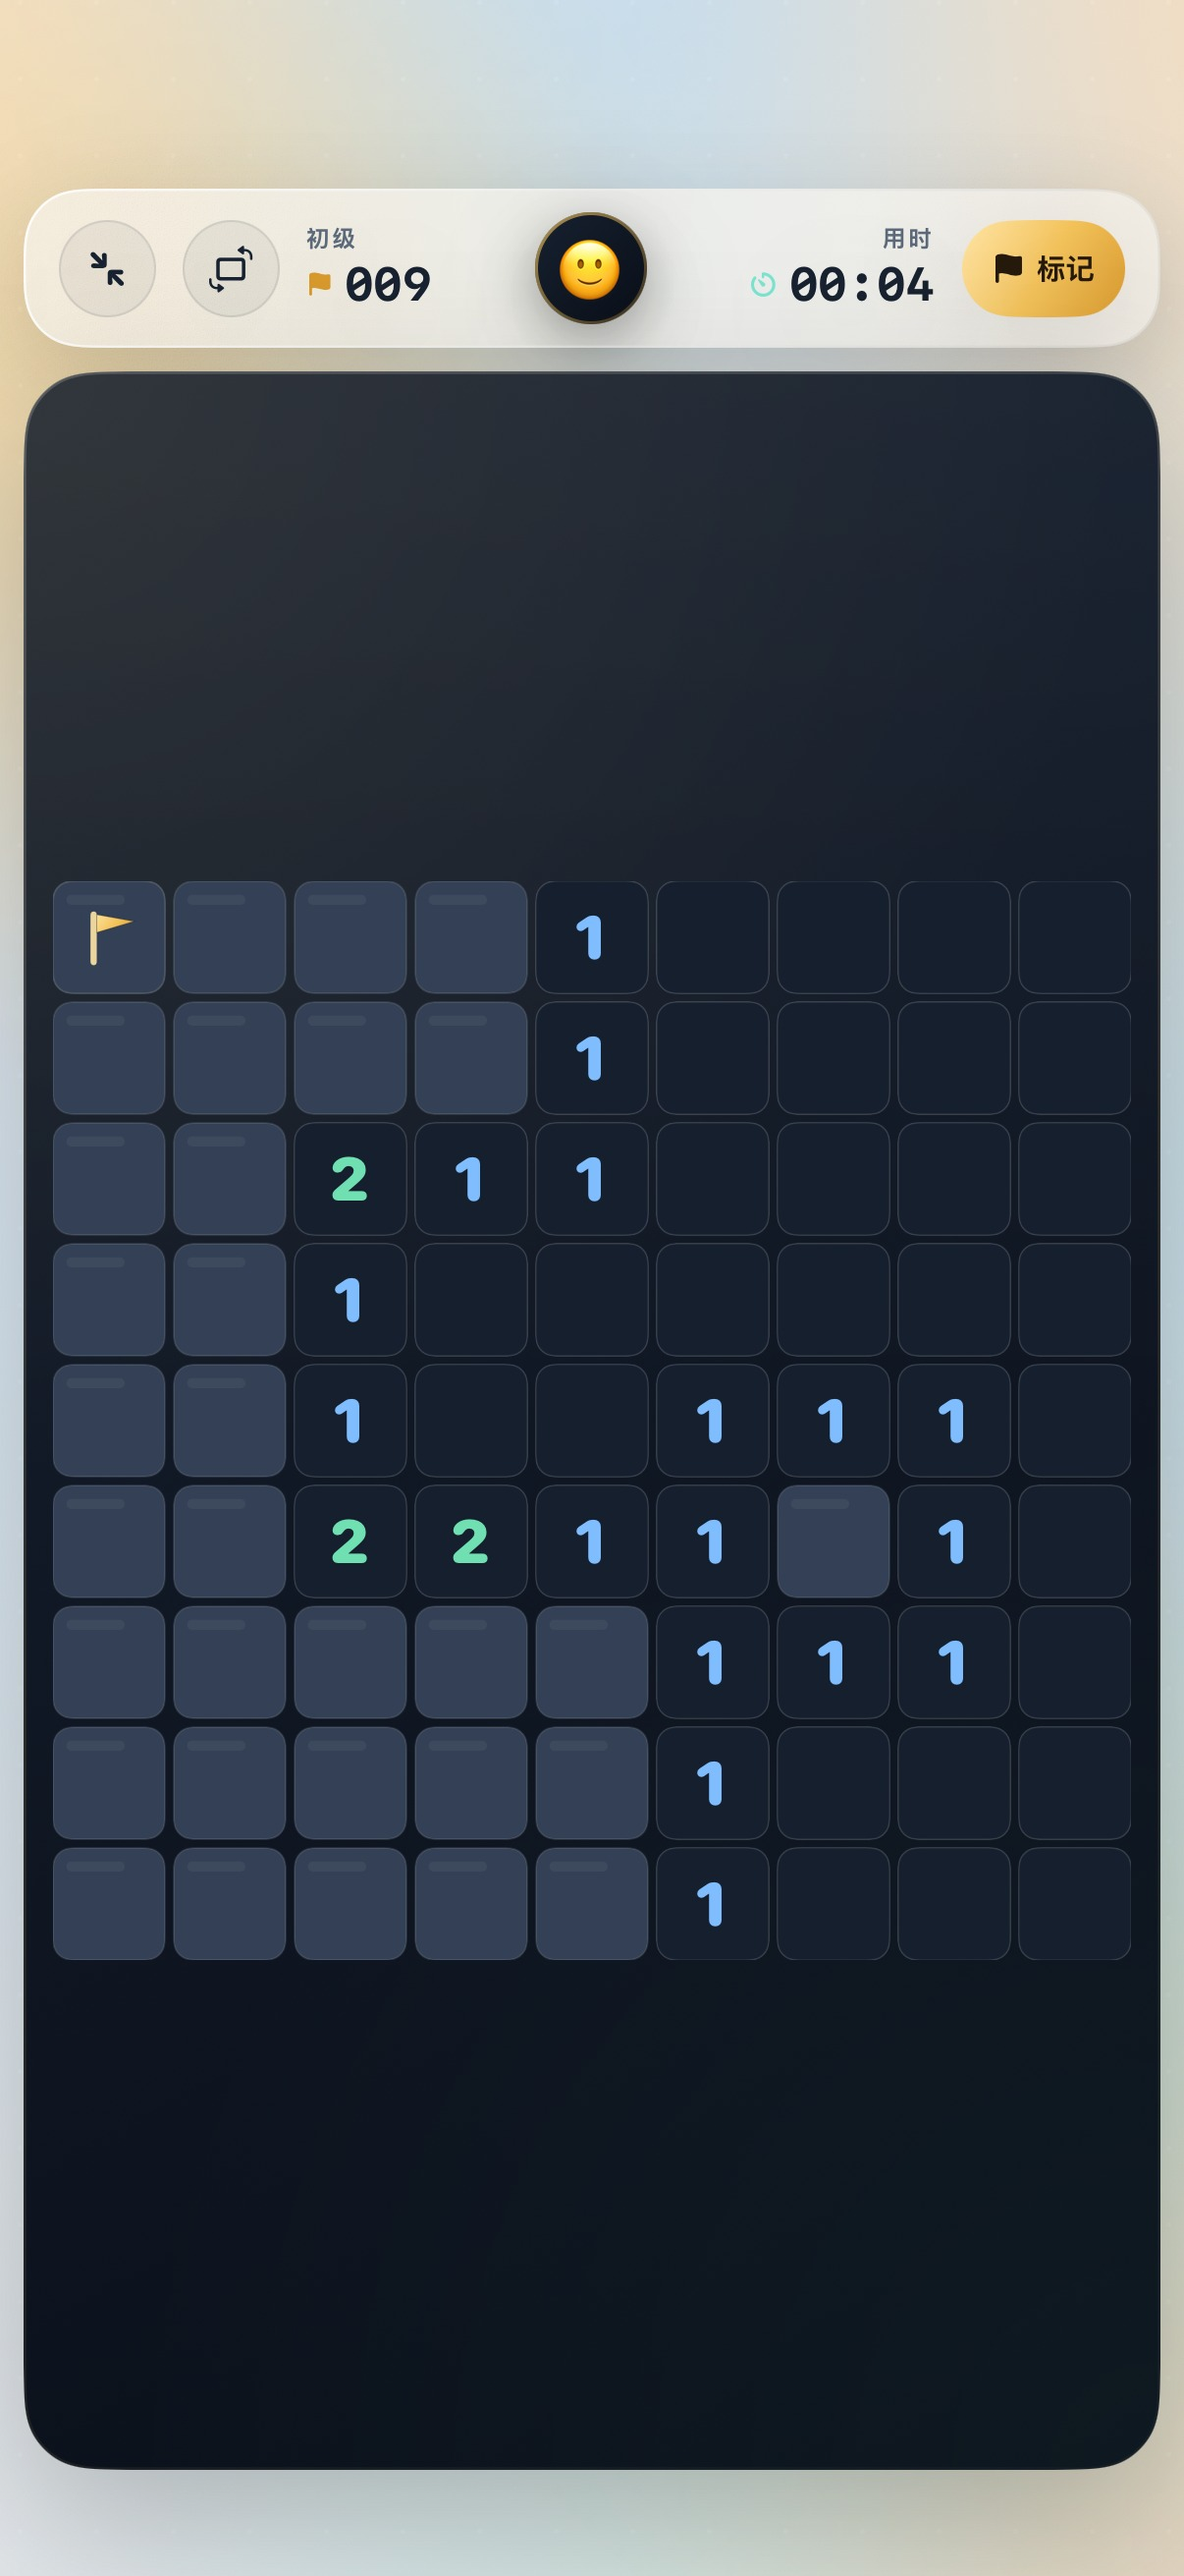
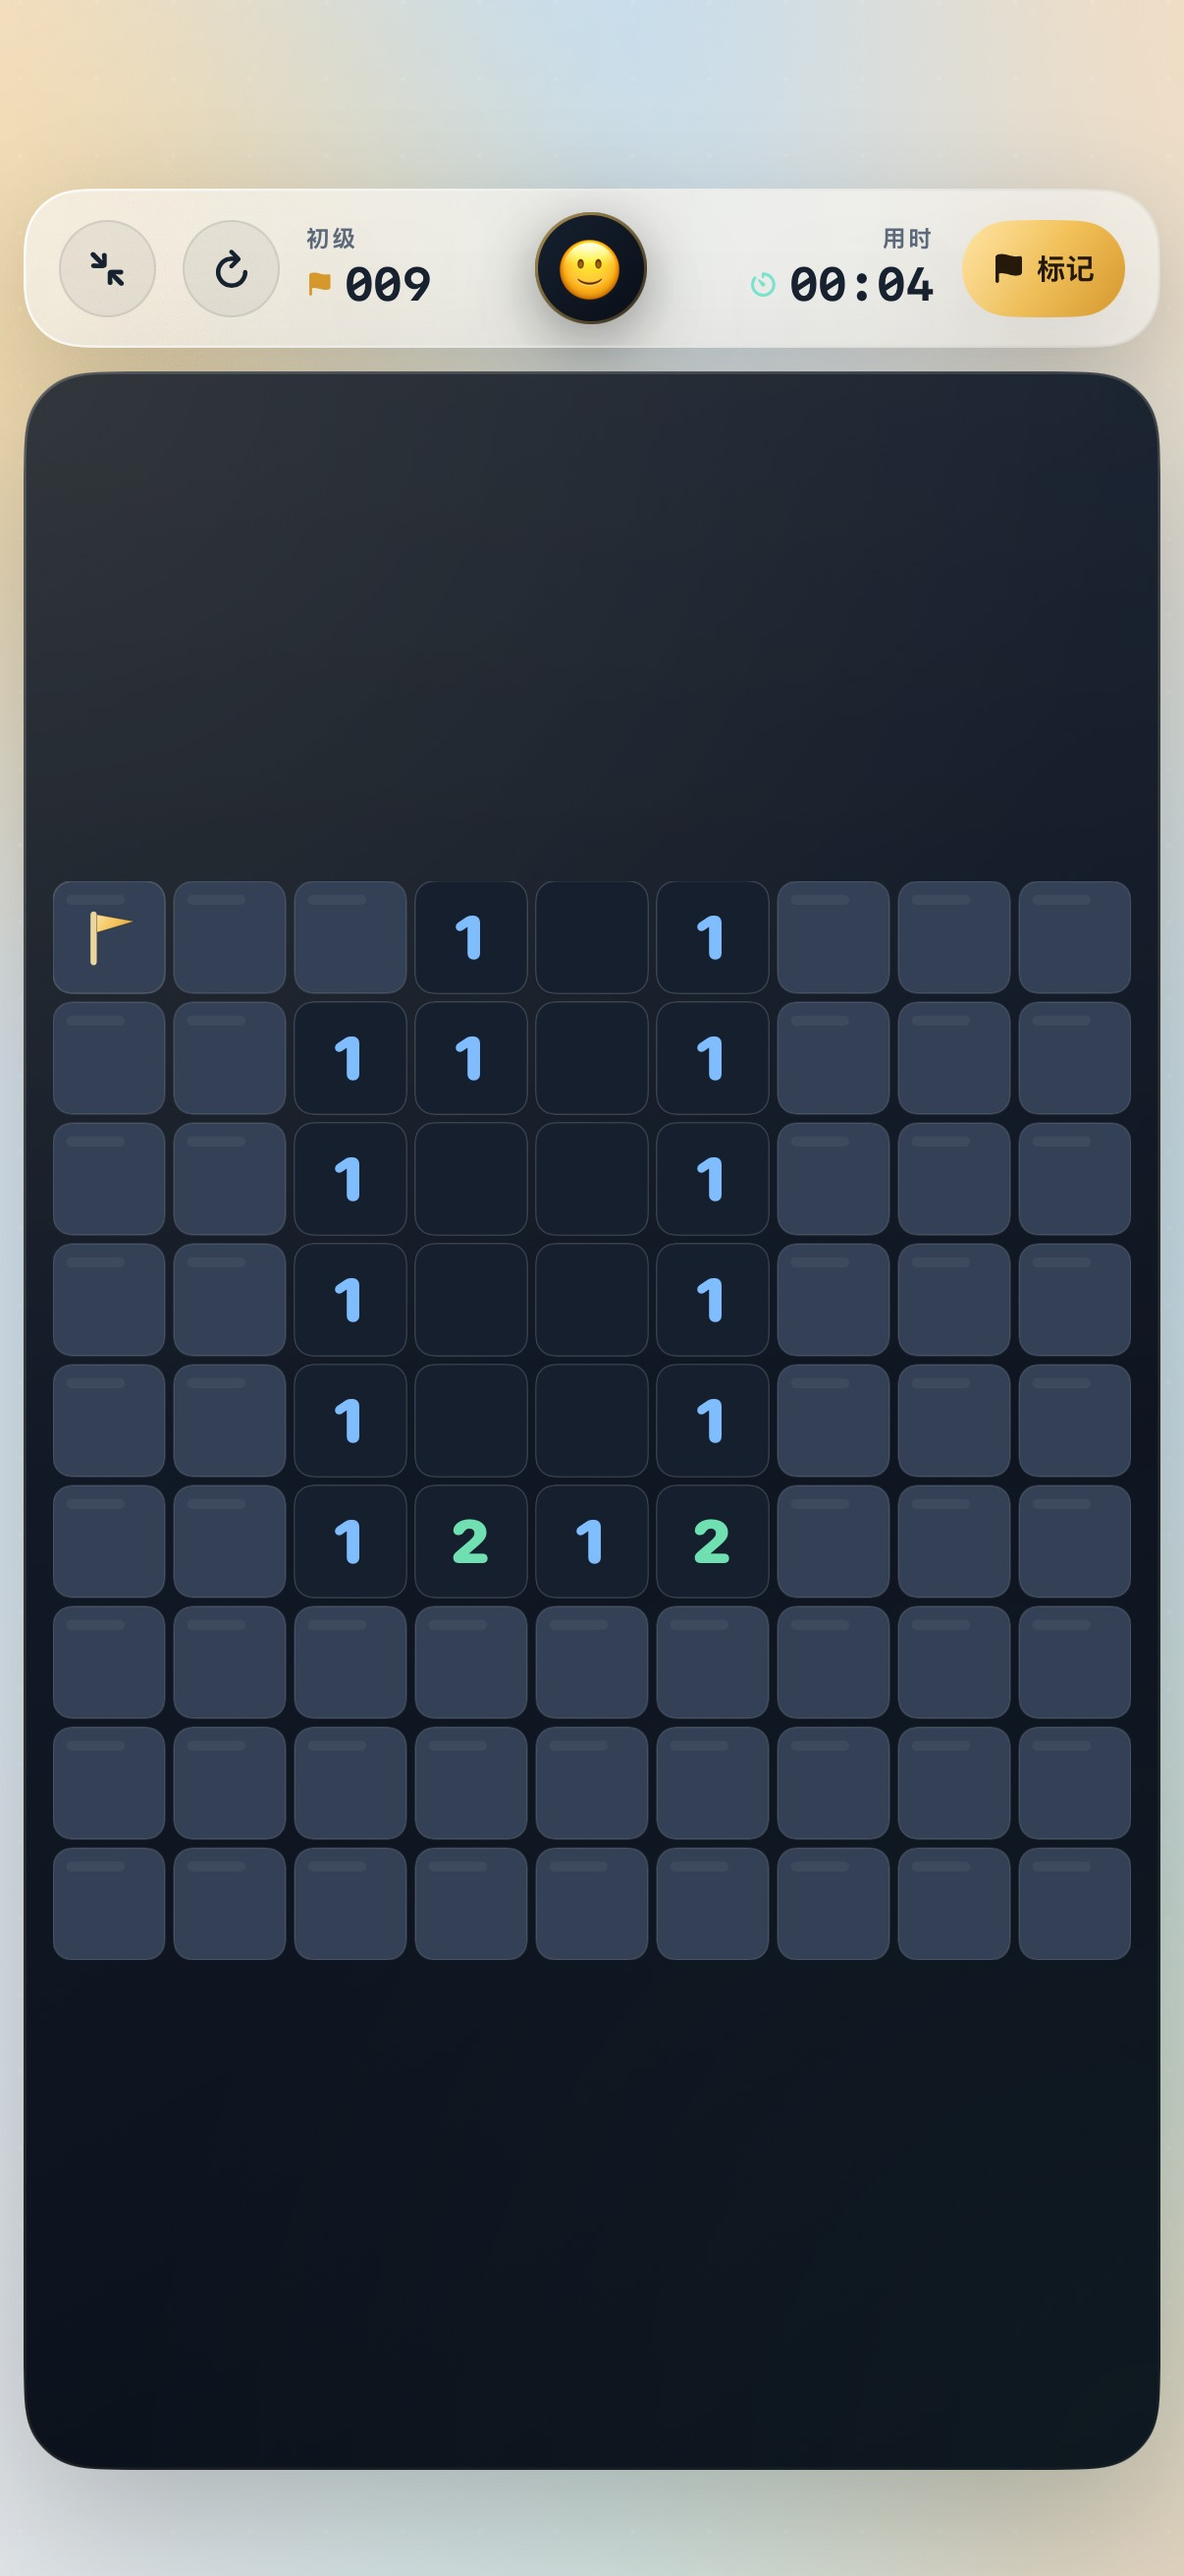
Make fullscreen orientation switch clockwise

diff --git a/Minesweeper/Views/FullScreenHUD.swift b/Minesweeper/Views/FullScreenHUD.swift
@@ -41,8 +41,8 @@ struct FullScreenHUD: View {
 
             if supportsOrientationToggle {
                 Button(action: onToggleOrientation) {
-                    Image(systemName: "rectangle.landscape.rotate")
-                        .font(.system(size: 12, weight: .semibold))
+                    Image(systemName: "arrow.clockwise")
+                        .font(.system(size: 12, weight: .bold))
                         .foregroundStyle(palette.ink)
                         .frame(width: 33, height: 33)
                         .contentShape(.circle)
@@ -55,7 +55,7 @@ struct FullScreenHUD: View {
                 }
                 .buttonStyle(.plain)
                 .accessibilityLabel("切换横竖屏")
-                .accessibilityHint("在横屏与竖屏全屏布局之间切换")
+                .accessibilityHint("以顺时针方向在横屏与竖屏全屏布局之间切换")
                 .accessibilityIdentifier("fullscreen-orientation")
             }
 

diff --git a/Minesweeper/Support/InterfaceOrientationController.swift b/Minesweeper/Support/InterfaceOrientationController.swift
@@ -1,6 +1,6 @@
 import UIKit
 
-/// Requests a one-shot portrait/landscape interface update from the active
+/// Requests a one-shot clockwise portrait/landscape interface update from the active
 /// window scene. iOS keeps the app's normal rotation behavior afterward, so the
 /// physical device can still be rotated freely.
 @MainActor
@@ -17,9 +17,11 @@ enum InterfaceOrientationController {
         case .landscapeLeft, .landscapeRight:
             target = .portrait
         case .portrait, .portraitUpsideDown:
-            target = .landscape
+            // Requesting landscapeRight rotates the content clockwise from
+            // portrait, which matches the app's previous natural rotation.
+            target = .landscapeRight
         default:
-            target = .landscape
+            target = .landscapeRight
         }
 
         scene.requestGeometryUpdate(.iOS(interfaceOrientations: target)) { _ in

diff --git a/README.md b/README.md
@@ -13,7 +13,7 @@
 - **完整操作**：轻点翻格、长按插旗、数字和弦、标记模式，以及点按已插旗格取消标记。
 - **双指缩放**：任意棋盘都可以双指捏合放大（1×–3×），单指拖动查看，右下角会显示缩放比例并可一键恢复。
 - **横屏模式**：iPhone 旋转到横屏后切换为侧栏布局；iPad 横竖屏均自适应。
-- **全屏专注**：点击棋盘右上角的展开按钮进入全屏，保留紧凑的雷数、计时、重开与标记控制；iPhone 全屏顶栏还提供一键横竖屏切换。
+- **全屏专注**：点击棋盘右上角的展开按钮进入全屏，保留紧凑的雷数、计时、重开与标记控制；iPhone 全屏顶栏还提供一键顺时针横竖屏切换。
 - **两套主题**：在「战绩 → 外观主题」中即时刻切换「午夜金」和「奶油绿」，选择会被保存。
 - **清晰触感**：翻格为轻快点击感，大片区域翻开时升级为更饱满的震动；插旗、触雷、胜利也有独立反馈，可在战绩页关闭。
 - **计时与纪录**：独立保存每个难度的最佳时间、胜局与总局数。
@@ -55,7 +55,7 @@
 | 轻点已翻开的数字 | 当周围旗数等于数字时，翻开周围格子 | 同左 |
 
 - **缩放**：在棋盘区域双指捏合；缩放后单指拖动查看，右下角的百分比按钮可恢复适应大小。
-- **全屏**：棋盘标题栏右上角的展开按钮进入全屏；全屏顶栏左上角按钮退出。全屏顶栏的旋转按钮可在横屏与竖屏之间切换（iPhone）。
+- **全屏**：棋盘标题栏右上角的展开按钮进入全屏；全屏顶栏左上角按钮退出。全屏顶栏的顺时针旋转按钮可在横屏与竖屏之间切换（iPhone）。
 - **横屏**：iPhone 横屏后会在左侧显示难度、计时、标记和入口；可随时旋转回竖屏。
 - **主题**：打开「战绩」，在「外观主题」中选择「午夜金」或「奶油绿」。
 
@@ -95,7 +95,7 @@ xcodebuild \
 - **15 个单元测试**覆盖布雷安全区、洪水翻开、胜负判定、和弦、旗子上限、计时、战绩持久化等。
 - **10 个 UI 测试**覆盖开局、标记模式、长按插旗、高级棋盘滚动、双指缩放、全屏、全屏横竖屏切换、主题切换、触雷结算、战绩与玩法页，以及 iPhone / iPad 横屏布局。
 - 当前代码在 iOS 27.0（iPhone 18 Pro）模拟器上全量测试通过；iPad 上的主题、全屏与横屏测试通过。
-- 已在 **iPhone 15（iOS 27.2 真机）** 上安装并启动版本 1.3。
+- 已在 **iPhone 15（iOS 27.2 真机）** 上安装并启动版本 1.4。
 - 工程使用 Xcode 27.2 的 iOS 27.2 SDK 编译。当前机器没有 iOS 27.2 模拟器运行时，27.2 以真机验证为准；签名团队未写入工程文件。
 
 ## 代码结构
